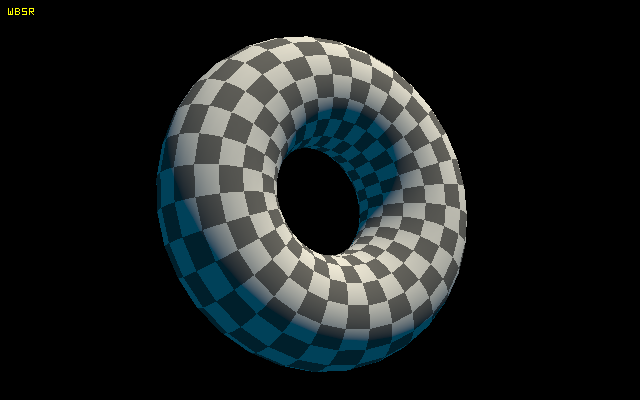
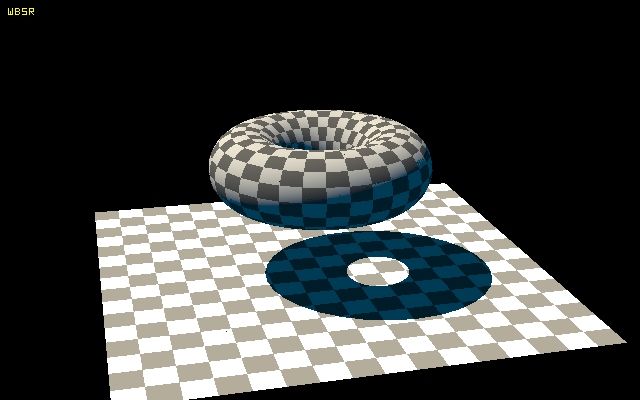
fix shadow mapping + add debug shadow map output

diff --git a/wbsr/main.cpp b/wbsr/main.cpp
@@ -140,6 +140,7 @@ void draw(const vector<rs_vertex>& vertices, const vector<uint32>& indices, func
 		auto min_y = floor(glm::min(v0.pos.y, glm::min(v1.pos.y, v2.pos.y)));
 		auto max_x = ceil(glm::max(v0.pos.x, glm::max(v1.pos.x, v2.pos.x)));
 		auto max_y = ceil(glm::max(v0.pos.y, glm::max(v1.pos.y, v2.pos.y)));
+		
 		vec3 gab = vec3(
 			v0.pos.x*v1.pos.y - v1.pos.x*v0.pos.y,
 			v1.pos.x*v2.pos.y - v2.pos.x*v1.pos.y,
@@ -212,7 +213,7 @@ int main() {
 
 	/* initialize geometry */
 	auto torus_vtc = vector<in_vertex>{ };
-	auto torus_ixd = vector<uint32>{ }; 
+	auto torus_ixd = vector<uint32>{ };
 	generate_torus(vec2(1.f, 0.5f), 32, [&torus_vtc](vec3 p, vec3 n, vec3, vec2 texcoord) {
 		torus_vtc.push_back(in_vertex{ p, n, texcoord });
 	}, [&torus_ixd](size_t i) {
@@ -225,13 +226,13 @@ int main() {
 		{vec3(1.f, 0.f, -1.f), vec3(0.f, 1.f, 0.f), vec2(1.f, 0.f)},
 		{vec3(1.f, 0.f, 1.f), vec3(0.f, 1.f, 0.f), vec2(1.f)},
 	};
-	auto floor_ixd = vector<uint32>{ 0, 1, 2, 1, 2, 3 }; 
+	auto floor_ixd = vector<uint32>{ 0, 1, 2, 1, 2, 3 };
 
 	/* textures */
 	checkerboard_texture tex{ vec3(0.2f), vec3(1.f), 16.f };
 
 	/* object transforms */
-	mat4 torus_W = rotate(mat4(1), pi<float>() / 3.f, vec3(1.f, 1.f, 0.f));
+	mat4 torus_W = mat4(1);// rotate(mat4(1), pi<float>() / 3.f, vec3(1.f, 1.f, 0.f));
 	mat4 floor_W = scale(translate(mat4(1), vec3(0.f, -1.5f, 0.f)), vec3(3.f));
 
 	/* camera transforms */
@@ -248,9 +249,10 @@ int main() {
 	const vec3 L = normalize(vec3(-0.5f, 1.f, -0.2f));
 
 	/* compute light 'camera' transforms */
-	mat4 lightV = lookAt(2.f*L, vec3(0.f), vec3(0.f, 1.f, 0.f));
-	mat4 lightP = ortho(-3.f, 3.f, -3.f, 3.f, 0.1f, 10.f);
-	mat4 lightWnPV = window(uvec2(shadow_size));
+	mat4 lightV = lookAt(8.f*L, vec3(0.f), vec3(0.f, 1.f, 0.f));
+	mat4 lightP =// perspectiveFov(pi<float>() / 3.f, (float)shadow_size, (float)shadow_size, 0.1f, 16.f);
+					ortho(-6.f, 6.f, -6.f, 6.f, 0.1f, 10.f);
+	mat4 lightWnPV = window(uvec2(shadow_size))*lightP*lightV;
 	//	transform geometry wrt the light
 	auto torus_light_tvtc = transform(torus_vtc, lightWnPV, torus_W);
 	auto floor_light_tvtc = transform(floor_vtc, lightWnPV, floor_W);
@@ -264,6 +266,15 @@ int main() {
 	};
 	draw(torus_light_tvtc, torus_ixd, shadow);
 	draw(floor_light_tvtc, floor_ixd, shadow);
+
+	/* debug output of shadow map */
+	texture2d shadow_map{ uvec2(shadow_size) };
+	for (size_t y = 0; y < shadow_size; ++y)
+		for (size_t x = 0; x < shadow_size; ++x) {
+			float z = shadow_depth[x + y * shadow_size];
+			shadow_map.pixel(uvec2(x, y)) = vec3(z > 1000.f ? 0.f : z);
+		}
+	shadow_map.write_bmp("shadow.bmp");
 
 	/* rasterize image */
 	auto shade = [&](uvec2 px, vec3 gab, float z, const rs_vertex& v0, const rs_vertex& v1, const rs_vertex& v2) {
@@ -279,14 +290,13 @@ int main() {
 			vec4 posW = aw * v0.posW + bw * v1.posW + gw * v2.posW;
 			vec4 pos_light = lightWnPV * posW;
 			pos_light /= pos_light.w;
+			pos_light.xy = floor(pos_light.xy());
 			float shadow = 1.f;
-			if (pos_light.x < 0 || pos_light.x >= shadow_size || pos_light.y < 0 || pos_light.y >= shadow_size) {
+			if (pos_light.x >= 0 && pos_light.x < shadow_size && pos_light.y >= 0 && pos_light.y < shadow_size) {
 				float lightZ = shadow_depth[pos_light.x + pos_light.y * shadow_size];
-				if (abs(lightZ - pos_light.z) > 0.01f) shadow = 0.f;
+				if (abs(lightZ - pos_light.z) > 0.001f) shadow = 0.f;
 			}
-			else {
-				shadow = 0.f;
-			}
+			//else shadow = 0.f;
 
 			// interpolate texture coords and normals
 			vec2 uv = aw * v0.tex + bw * v1.tex + gw * v2.tex;
